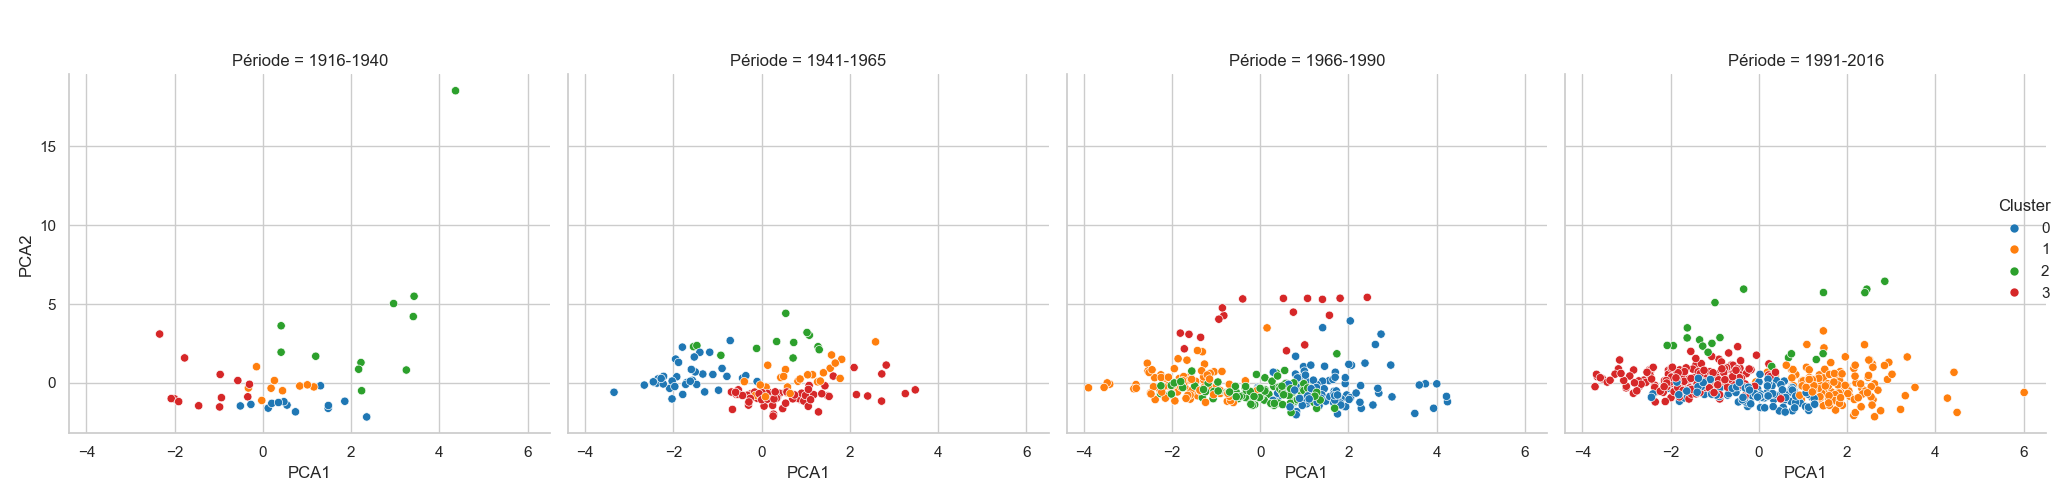
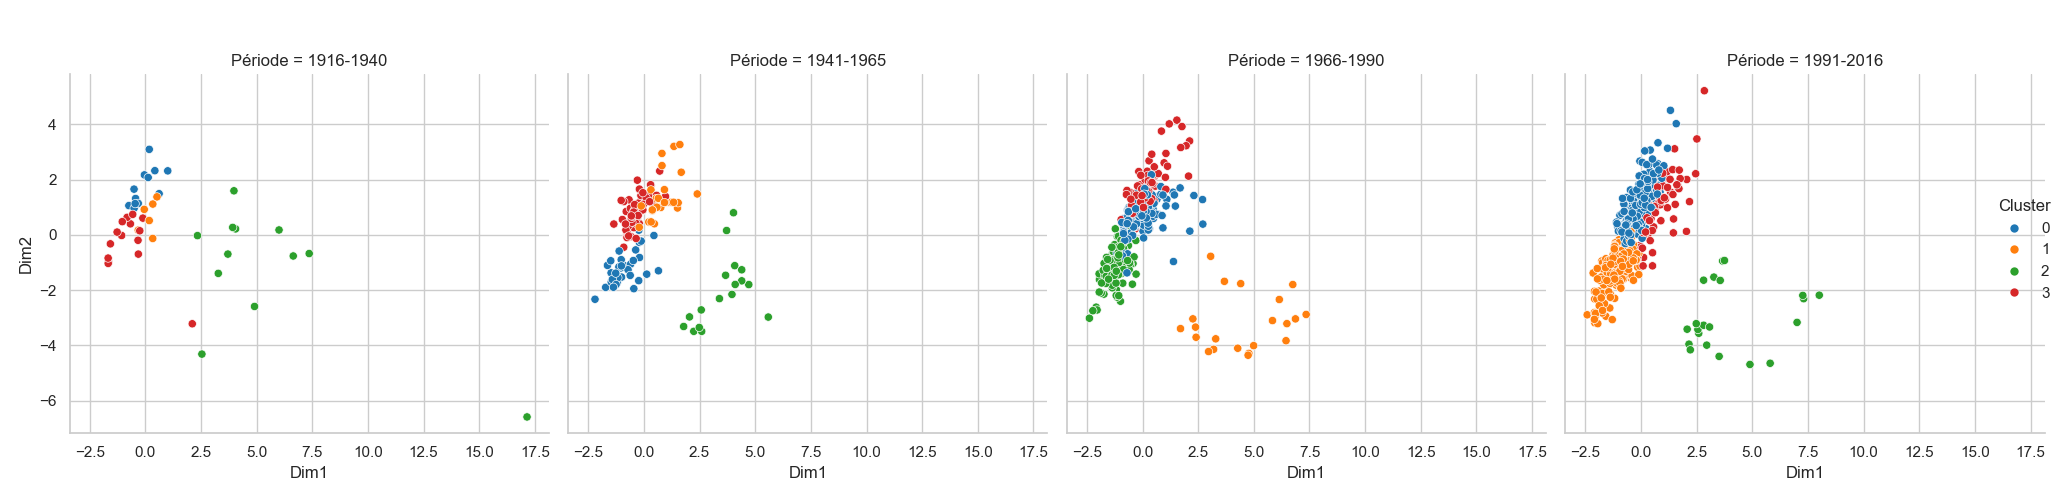
proposition classification à travailler

diff --git a/classification.py b/classification.py
@@ -15,6 +15,8 @@ df = pd.read_csv("athlete_events.csv")
 # -----------------------------
 
 
+# Correction des données pour distinguer les épreuves individuelles et collectives,
+# onn suppose qu’une épreuve est collective si elle attribue ≥ 6 médailles
 def ajouter_type_epreuve(donnees):
     corrected_rows = []
     for event, group in donnees.groupby("Event"):
@@ -42,36 +44,49 @@ def ajouter_type_epreuve(donnees):
     return donnees_corr
 
 
+# Chaque ligne représente une épreuve. Pour chaque épreuve, on calcule des variables
+# statistiques qui vont servir de caractéristiques pour la classification
 def construire_table_epreuves(donnees):
-    table = (
-        donnees.groupby("Event")
-        .agg(
-            **{
-                "Sport": ("Sport", "first"),
-                "Nb participants": ("ID", "nunique"),
-                "Nb pays": ("NOC", "nunique"),
-                "Part femmes": ("Sex", lambda x: (x == "F").sum() / len(x)),
-                "Âge moyen": ("Age", "mean"),
-                "Écart âge": ("Age", "std"),
-                "Poids moyen": ("Weight", "mean"),
-                "Écart poids": ("Weight", "std"),
-                "Taille moyenne": ("Height", "mean"),
-                "Écart taille": ("Height", "std"),
-                "Année apparition": ("Year", "min"),
-                "Type": ("Type", "first"),
-            }
-        )
-        .reset_index()
+    table = donnees.groupby("Event").agg(
+        {
+            "Sport": "first",
+            "ID": "nunique",
+            "NOC": "nunique",
+            "Sex": lambda x: (x == "F").sum() / len(x),
+            "Age": ["mean", "std"],
+            "Weight": ["mean", "std"],
+            "Height": ["mean", "std"],
+            "Year": "min",
+            "Type": "first",
+        }
     )
+
+    table.columns = [
+        "Sport",
+        "Nb participants",
+        "Nb pays",
+        "Part femmes",
+        "Âge moyen",
+        "Écart âge",
+        "Poids moyen",
+        "Écart poids",
+        "Taille moyenne",
+        "Écart taille",
+        "Année apparition",
+        "Type",
+    ]
+    table = table.reset_index()
     table["Nb épreuves dans le sport"] = table.groupby("Sport")["Event"].transform(
         "count"
     )
+    table["Type collectif"] = (table["Type"] == "collectif").astype(int)
     return table
 
 
 # -----------------------------
 # Traitement par période
 # -----------------------------
+# les statistiques qui vont servir de caractéristiques (features) pour la classification
 colonnes_features = [
     "Nb épreuves dans le sport",
     "Nb participants",
@@ -85,6 +100,10 @@ colonnes_features = [
     "Écart taille",
 ]
 
+colonnes_features += ["Année apparition"]
+colonnes_features += ["Type collectif"]
+
+# écoupage en 4 périodes de 25 ans
 periodes = {
     "1916-1940": (1916, 1940),
     "1941-1965": (1941, 1965),
@@ -92,9 +111,14 @@ periodes = {
     "1991-2016": (1991, 2016),
 }
 
+# Classification K-means (non supervisée)
+
+# Pour chaque période
 tables_par_periode = []
+# On normalise les variables
 scaler = StandardScaler()
 
+# On applique K-means avec 4 clusters (groupes)
 for nom_periode, (debut, fin) in periodes.items():
     print(f"→ Traitement de la période {nom_periode}")
     subset = df[(df["Year"] >= debut) & (df["Year"] <= fin)].copy()
@@ -120,17 +144,18 @@ X_scaled_all = scaler.fit_transform(table_periodes[colonnes_features])
 pca = PCA(n_components=2)
 X_pca = pca.fit_transform(X_scaled_all)
 
-table_periodes["PCA1"] = X_pca[:, 0]
-table_periodes["PCA2"] = X_pca[:, 1]
+table_periodes["Dim1"] = X_pca[:, 0]
+table_periodes["Dim2"] = X_pca[:, 1]
 
 # -----------------------------
 # Visualisation PCA
 # -----------------------------
+# Chaque point dans le plan PCA représente une épreuve
 sns.set(style="whitegrid")
 g = sns.relplot(
     data=table_periodes,
-    x="PCA1",
-    y="PCA2",
+    x="Dim1",
+    y="Dim2",
     hue="Cluster",
     col="Période",
     palette="tab10",
@@ -144,6 +169,61 @@ g.fig.suptitle(
 plt.tight_layout()
 plt.savefig("pca_clusters_par_periode.png")
 plt.show()
+
+
+# Affiche les contributions des variables aux deux premiers axes PCA
+pca_components = pd.DataFrame(
+    pca.components_,
+    columns=colonnes_features,  # les noms des variables originales
+    index=["Dim1", "Dim2"],
+)
+
+print("Contribution des variables aux axes  :")
+print(pca_components.T.sort_values("Dim1", ascending=False))  # trier pour voir l'impact
+
+# stat desc
+# Fusionner les données avec leur cluster
+data_clustered = table_periodes.copy()
+
+# Moyenne de chaque variable par cluster
+cluster_summary = data_clustered.groupby("Cluster")[colonnes_features].mean().round(2)
+print("Résumé statistique par cluster :")
+print(cluster_summary)
+
+# Écart-type
+cluster_std = data_clustered.groupby("Cluster")[colonnes_features].std().round(2)
+
+# export excel
+with pd.ExcelWriter("resume_clusters.xlsx") as writer:
+    cluster_summary.to_excel(writer, sheet_name="Moyennes")
+    cluster_std.to_excel(writer, sheet_name="Ecart-type")
+
+
+# profils moyens pas cluster
+def interpreter_cluster(cluster_id, summary):
+    ligne = summary.loc[cluster_id]
+    texte = f"Cluster {cluster_id} :\n"
+    if ligne["Nb participants"] > 50:
+        texte += "- Épreuves très fréquentées\n"
+    if ligne["Part femmes"] > 0.6:
+        texte += "- Majoritairement féminines\n"
+    if ligne["Poids moyen"] > 75:
+        texte += "- Athlètes lourds\n"
+    if ligne["Taille moyenne"] > 180:
+        texte += "- Athlètes de grande taille\n"
+    if ligne["Année apparition"] > 2000:
+        texte += "- Épreuves récentes\n"
+    if ligne["Type collectif"] == 1:
+        texte += "- Épreuves collectives\n"
+    else:
+        texte += "- Épreuves individuelles\n"
+    return texte
+
+
+# Exemple d'utilisation
+for i in range(cluster_summary.shape[0]):
+    print(interpreter_cluster(i, cluster_summary))
+    print("-" * 40)
 
 # -----------------------------
 # Export Excel
